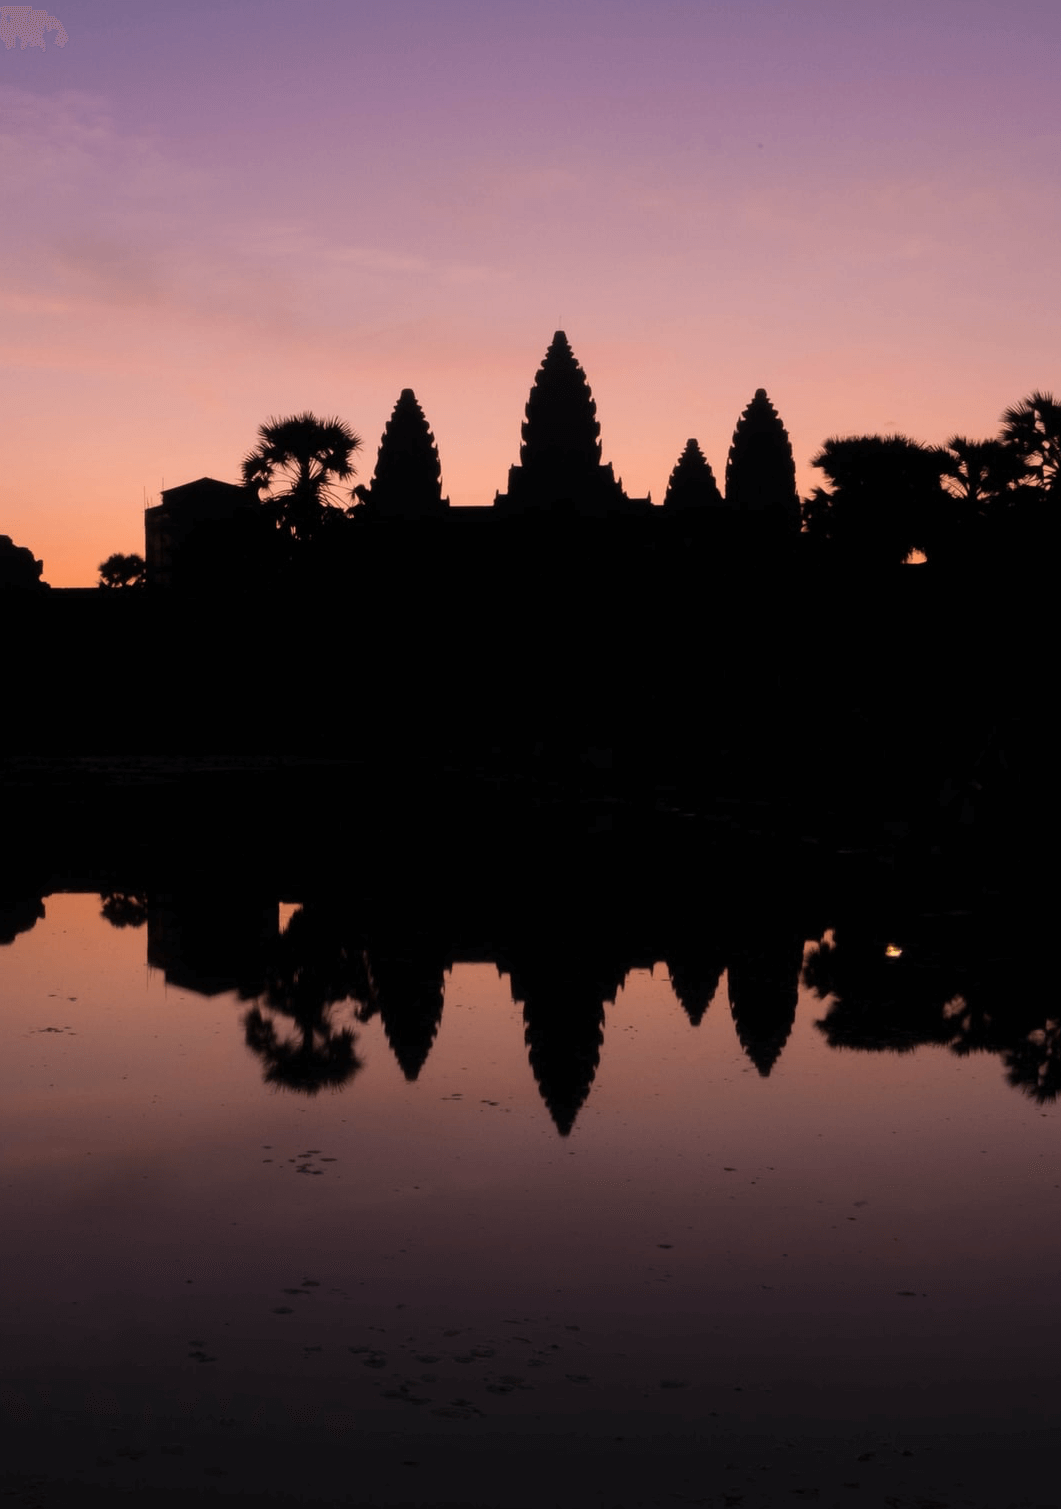
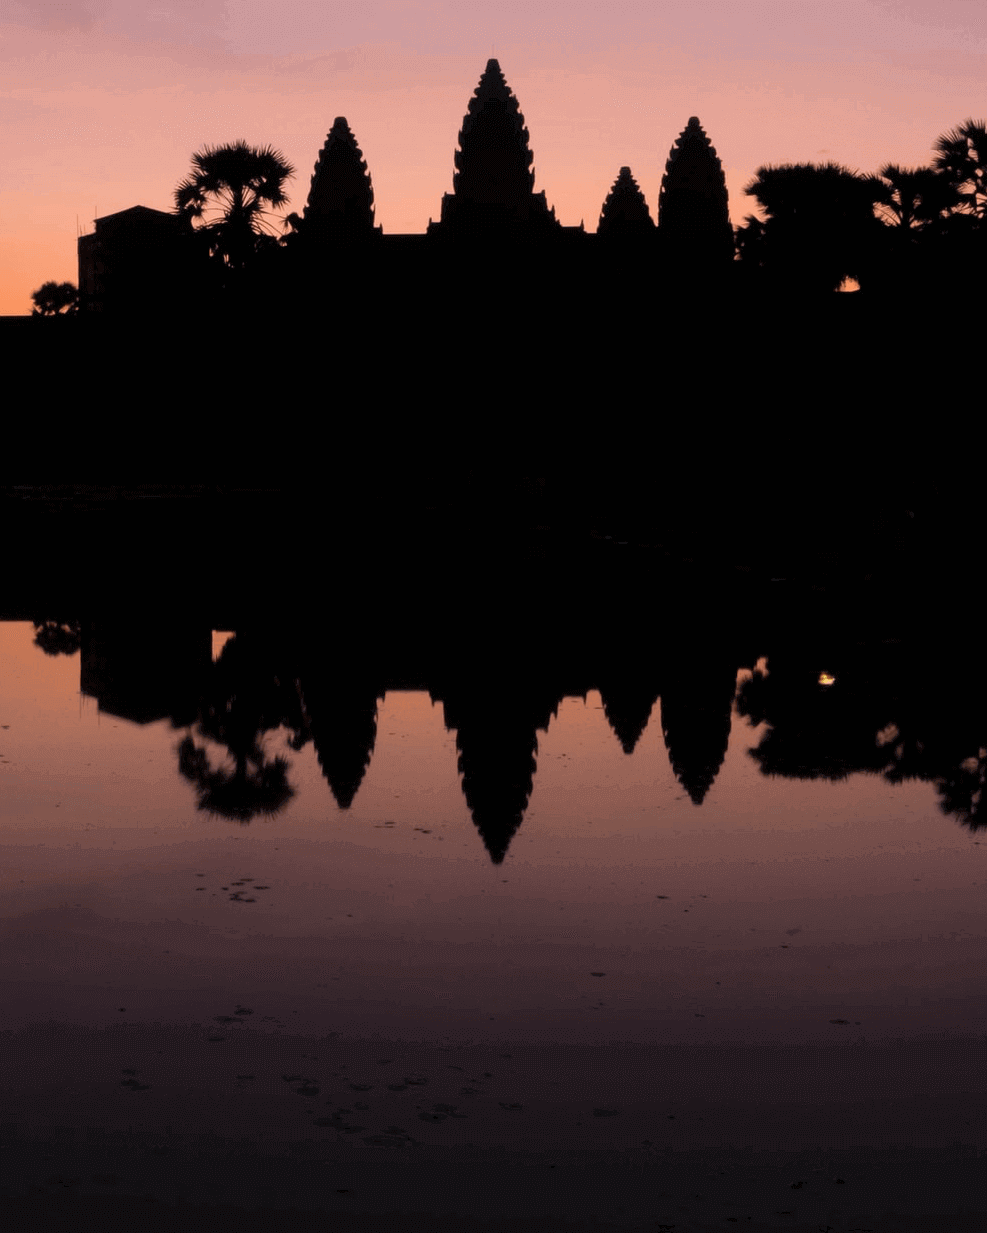
add fontawesome on social network button

diff --git a/client-web/src/pages/sign-in/sign-in-page.js b/client-web/src/pages/sign-in/sign-in-page.js
@@ -46,11 +46,13 @@ const SignInPage = ({ googleSignInStart }) => {
             facebook
             onClick={() => console.log('click on facebook button')}
           >
-            Sign in with facebook
+            <i className='fa fa-facebook fa-fw'></i> Sign in with facebook
           </SocialNetworkButton>
-          <SocialNetworkButton google>Sign in with google</SocialNetworkButton>
+          <SocialNetworkButton google>
+            <i className='fa fa-google fa-fw'></i> Sign in with google
+          </SocialNetworkButton>
           <SocialNetworkButton twitter>
-            Sign in with twitter
+            <i class='fa fa-twitter fa-fw'></i> Sign in with twitter
           </SocialNetworkButton>
         </SocialSignInInner>
       </SocialSignInContainer>

diff --git a/client-web/src/components/social-network-button/styles/social-network-button-styles.js b/client-web/src/components/social-network-button/styles/social-network-button-styles.js
@@ -3,6 +3,7 @@ import styled, { css } from 'styled-components/macro';
 import { FACEBOOK, GOOGLE, TWITTER } from '../../../constants/colors';
 
 export const SocialNetworkButtonContainer = styled.button`
+  position: relative;
   width: 230px;
   background-color: black;
   color: white;
@@ -10,6 +11,7 @@ export const SocialNetworkButtonContainer = styled.button`
   border: none;
   cursor: pointer;
   opacity: 0.9;
+  border: 0.4px solid white;
   margin-bottom: 12px;
   &:hover {
     opacity: 1;

diff --git a/client-web/src/pages/sign-in/styles/sign-in-page-styles.js b/client-web/src/pages/sign-in/styles/sign-in-page-styles.js
@@ -37,7 +37,7 @@ export const SocialSignInContainer = styled.div`
   box-sizing: border-box;
   width: 350px;
   height: 500px;
-  background: url('angkorwat-new.png');
+  background: url('angkorwat.png');
   background-size: cover;
   background-position: center;
   border-radius: 2px 0 0 2px;
